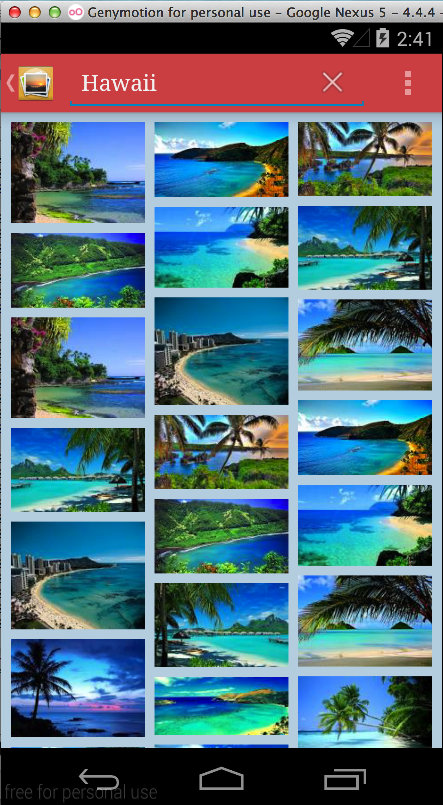
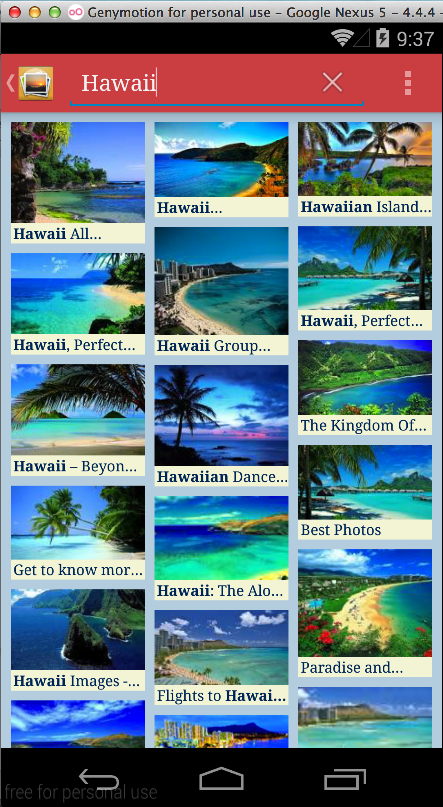
Added text to image thumbnails, added placeholder images to load before images load on search page

diff --git a/GridImageSearch/src/com/codepath/gridimagesearch/adapters/ImageResultsAdapter.java b/GridImageSearch/src/com/codepath/gridimagesearch/adapters/ImageResultsAdapter.java
@@ -3,6 +3,7 @@ package com.codepath.gridimagesearch.adapters;
 import java.util.List;
 
 import android.content.Context;
+import android.text.Html;
 import android.util.SparseArray;
 import android.view.LayoutInflater;
 import android.view.View;
@@ -12,6 +13,7 @@ import android.widget.ArrayAdapter;
 import com.codepath.gridimagesearch.R;
 import com.codepath.gridimagesearch.models.ImageResult;
 import com.etsy.android.grid.util.DynamicHeightImageView;
+import com.etsy.android.grid.util.DynamicHeightTextView;
 import com.squareup.picasso.Picasso;
 
 public class ImageResultsAdapter extends ArrayAdapter<ImageResult> {
@@ -25,6 +27,7 @@ public class ImageResultsAdapter extends ArrayAdapter<ImageResult> {
     // viewholder class
     private static class ViewHolder {
         DynamicHeightImageView ivImage;
+        DynamicHeightTextView tvTitle;
     }
 
     @Override
@@ -37,11 +40,14 @@ public class ImageResultsAdapter extends ArrayAdapter<ImageResult> {
             viewHolder = new ViewHolder();
             convertView = LayoutInflater.from(getContext()).inflate(R.layout.item_image_result, parent, false);
             viewHolder.ivImage = (DynamicHeightImageView) convertView.findViewById(R.id.ivImage);
+            viewHolder.tvTitle = (DynamicHeightTextView) convertView.findViewById(R.id.tvTitle);
             convertView.setTag(viewHolder);
         } else {
             viewHolder = (ViewHolder) convertView.getTag();
         }
 
+        // populate text
+        viewHolder.tvTitle.setText(Html.fromHtml(currentImage.title));
         //clear out the image
         viewHolder.ivImage.setImageResource(0);
 
@@ -49,7 +55,10 @@ public class ImageResultsAdapter extends ArrayAdapter<ImageResult> {
         viewHolder.ivImage.setHeightRatio(positionHeight);
 
         //remotely download the image data in the background with Picasso
-        Picasso.with(getContext()).load(currentImage.thumbUrl).into(viewHolder.ivImage);
+        Picasso.with(getContext())
+        .load(currentImage.thumbUrl)
+        .placeholder(R.drawable.ic_thumb_placeholder)
+        .into(viewHolder.ivImage);
 
 
         //return the completed view to be displayed

diff --git a/GridImageSearch/src/com/codepath/gridimagesearch/activities/SearchActivity.java b/GridImageSearch/src/com/codepath/gridimagesearch/activities/SearchActivity.java
@@ -197,16 +197,22 @@ public class SearchActivity extends Activity {
                     searchFilters += "&as_sitesearch=" + siteFilterValue;
                 }
             }
+
+            doImageSearch();
         }
 
     }
 
     public void doImageSearch() {
         aImageResults.clear();
-        switchSplashScreenOff(true);
+        if (rlSplashScreen.getVisibility() == View.VISIBLE) {
+            switchSplashScreenOff(true);
+        }
         customLoadMoreDataFromApi(0);
 
     }
+
+
 
     public void switchSplashScreenOff(boolean switchFlag) {
         if (switchFlag) {
@@ -218,7 +224,6 @@ public class SearchActivity extends Activity {
         }
 
     }
-
 
     public void onSettings(MenuItem mi) {
         // We need to start an intent for result, pass search query + filter options
@@ -250,10 +255,13 @@ public class SearchActivity extends Activity {
             @Override
             public boolean onMenuItemActionCollapse(MenuItem item) {
                 // TODO Auto-generated method stub
-                switchSplashScreenOff(false);
+                if (rlSplashScreen.getVisibility() != View.VISIBLE) {
+                    switchSplashScreenOff(false);
+                }
                 return true;
             }
         });
+
 
         searchView.setOnQueryTextListener(new OnQueryTextListener() {
             @Override
